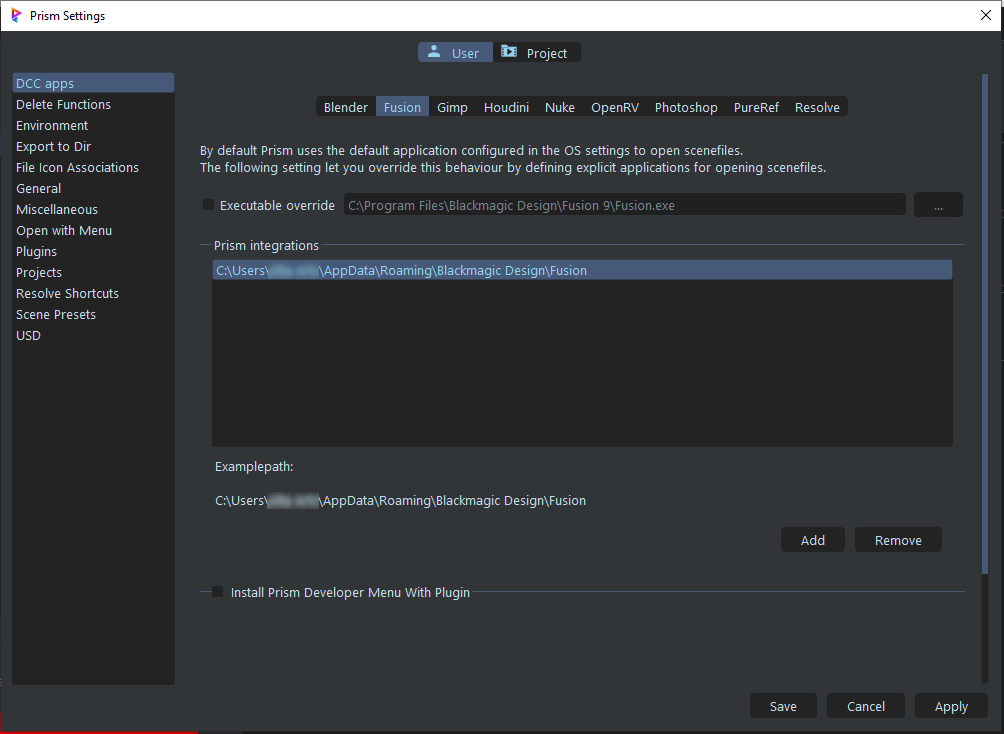
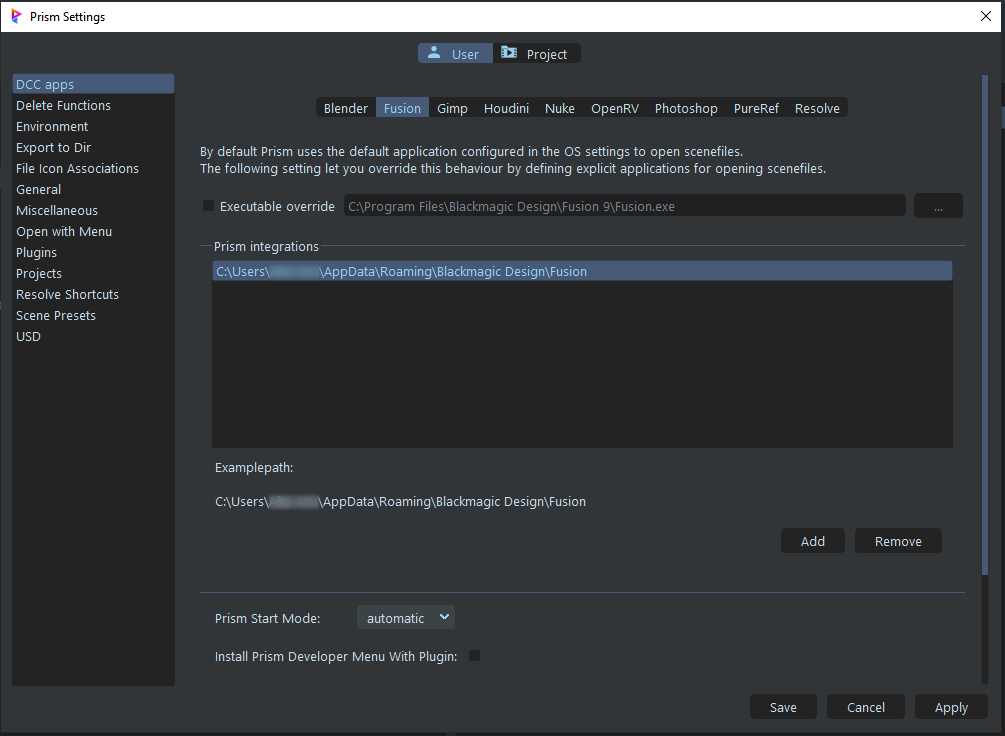
Added Startup mode details to docs

diff --git a/Docs/Interface.md b/Docs/Interface.md
@@ -2,13 +2,38 @@
 
 <br/>
 
-When Fusion is opened, a popup will display to allow the user to launch the Prism integration.
-
-![Startup Popup](DocsImages/Startup_Popup.png)
+## **Prism Startup Mode:**
 
 <br/>
 
-### **Prism Menu:**
+There are three modes for Prism launching in Fusion: "Automatic", "Prompt", and "Manual".  The desired behaviour can be selected in the "DCC apps" tab of the Prism User Settings.
+
+![Startup Modes](DocsImages/StartupMode.png)
+
+### **Automatic**
+
+When in Automatic mode, Prism will be launched everytime Fusion is started.
+
+<br/>
+
+### **Prompt**
+
+When in Prompt mode, a popup will display to allow the user to launch the Prism when Fusion is started.
+
+![Startup Popup](DocsImages/Startup_Popup.png)
+
+### **Manual**
+
+When in Manual mode, Prism will not start when Fusion is opened.  But Prism can be started anytime by using the "RESET PRISM" button in the Prism menu.
+
+![Startup Popup](DocsImages/Prism_Menu.png)
+
+
+
+
+<br/>
+
+## **Prism Menu:**
 
 <br/>
 
@@ -34,7 +59,7 @@ The Prism functions are running in a dedicated process, so note that only one Pr
 
 <br/>
 
-### **Fusion AutoSave:**
+## **Fusion AutoSave:**
 
 ![AutoSave Icon](DocsImages/AutoSave_Icon.png)
 
